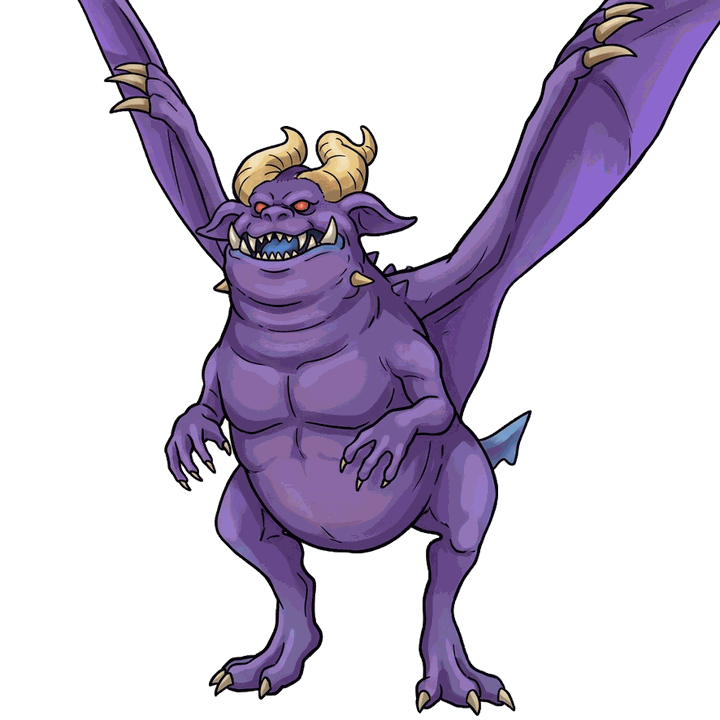
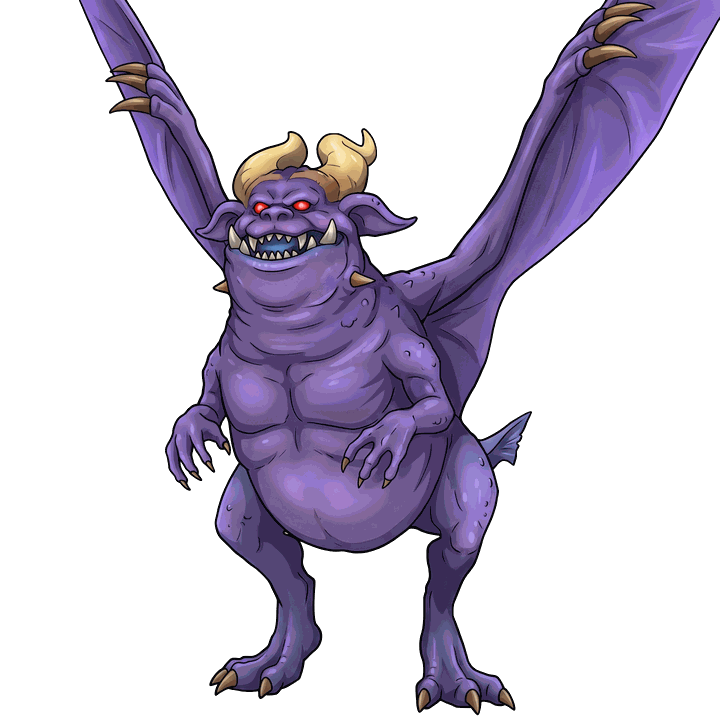
イラスト20枚を描き直し版に差し替え（背景を透過・720px）、長い名前でもNo.が見えるように
Claude-Session: https://claude.ai/code/session_011uzSQwvoLkKw32mkMu6jbZ

Changed region(s): [[0.0917, 0.0, 1.0, 1.0], [0.825, 0.275, 0.8556, 0.3056]]

diff --git a/index.html b/index.html
@@ -140,7 +140,9 @@ h2 .n{font-family:var(--f-body);font-size:.82rem;color:var(--mute);font-weight:5
 /* カード：上に名前と情報、下にイラストとグラフを同じ高さで横並び */
 .card:not(.miss){grid-template-columns:minmax(0,1fr) minmax(0,1fr);grid-template-areas:"t s" "i r";gap:6px 8px;align-items:stretch}
 .card:not(.miss)>.nk{grid-area:t;align-self:end;font-family:var(--f-head);font-weight:900;font-size:1.3rem;line-height:1.2;white-space:nowrap;overflow:hidden;text-overflow:ellipsis;letter-spacing:-.02em;min-width:0}
-.card:not(.miss)>.nk .no{font-family:var(--f-body);font-size:.72rem;font-weight:700;color:var(--mute);margin-left:6px;letter-spacing:0}
+.card:not(.miss)>.nk{display:flex;align-items:baseline}
+.card:not(.miss)>.nk .nm{overflow:hidden;text-overflow:ellipsis;min-width:0}
+.card:not(.miss)>.nk .no{flex:none;font-family:var(--f-body);font-size:.72rem;font-weight:700;color:var(--mute);margin-left:6px;letter-spacing:0}
 .card:not(.miss)>.shape{grid-area:s;align-self:end;justify-self:center;font-size:.74rem;font-weight:700;color:var(--accent);background:var(--tint);border-radius:99px;padding:1px 10px;white-space:nowrap}
 .card .ct{grid-area:t;display:flex;flex-direction:column;gap:3px;min-width:0}
 .card .ct-a{display:flex;align-items:baseline;gap:8px;min-width:0}
@@ -711,7 +713,7 @@ function viewDragon(){
   const cards=items.map(({d,sp,n})=>!d?`
     <div class="card box miss"><div class="cl"><b class="nk">${esc(sp)}</b><span class="sp">No.${n}・${rarOf(sp)}</span>${SP[sp]?fieldRow({sp}):""}</div><span class="miss-l">未取得</span></div>`:`
     <button class="card box" data-open="${d.no}" aria-label="${esc(d.nk)}をひらく">
-      <b class="nk">${esc(d.nk)}<small class="no">No.${msNo(d.sp)||d.no}</small></b><span class="shape">${esc(shapeOf(d))}</span>
+      <b class="nk"><span class="nm">${esc(d.nk)}</span><small class="no">No.${msNo(d.sp)||d.no}</small></b><span class="shape">${esc(shapeOf(d))}</span>
       <div class="ci">${illust(d)}</div><div class="cr">${radar(d,{sq:true})}</div>
     </button>`).join("");
   return `${gchips}${imgSwitch()}${missBtn}${state.dMiss&&state.dGrp!=="all"?`<p class="hint">未取得の魔石は「すべて」の時に表示します</p>`:""}<div class="grid">${cards}</div>`;
